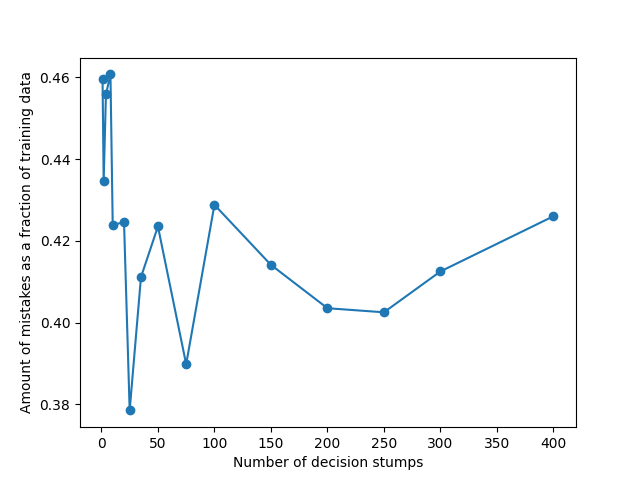
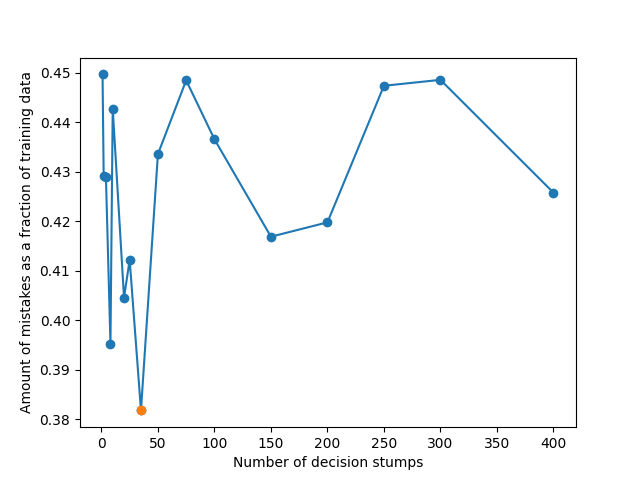
add best point to graph

diff --git a/cross-validation/HW_09_jxp8764_pdn3628_Classifier.py b/cross-validation/HW_09_jxp8764_pdn3628_Classifier.py
@@ -11,91 +11,91 @@ def classifier(record):
 	answer = 0
 
 	# Decision Stump Number 1
-	if record['EarLobes'] <= 0:
+	if record['Age'] > 52:
 		answer = answer - 1
 	else:
 		answer = answer + 1
 
 	# Decision Stump Number 2
-	if record['Age'] > 48:
+	if record['Reach'] > 217:
 		answer = answer - 1
 	else:
 		answer = answer + 1
 
 	# Decision Stump Number 3
-	if record['Reach'] > 209:
+	if record['Age'] > 19:
 		answer = answer - 1
 	else:
 		answer = answer + 1
 
 	# Decision Stump Number 4
-	if record['EarLobes'] <= 1:
+	if record['TailLn'] > 17:
 		answer = answer - 1
 	else:
 		answer = answer + 1
 
 	# Decision Stump Number 5
-	if record['BangLn'] <= 1:
+	if record['Age'] > 46:
 		answer = answer - 1
 	else:
 		answer = answer + 1
 
 	# Decision Stump Number 6
-	if record['TailLn'] <= 26:
+	if record['Age'] > 64:
 		answer = answer - 1
 	else:
 		answer = answer + 1
 
 	# Decision Stump Number 7
-	if record['HairLn'] <= 8:
+	if record['Age'] > 23:
 		answer = answer - 1
 	else:
 		answer = answer + 1
 
 	# Decision Stump Number 8
-	if record['Age'] > 63:
+	if record['EarLobes'] <= 1:
 		answer = answer - 1
 	else:
 		answer = answer + 1
 
 	# Decision Stump Number 9
-	if record['TailLn'] <= 29:
+	if record['BangLn'] <= 7:
 		answer = answer - 1
 	else:
 		answer = answer + 1
 
 	# Decision Stump Number 10
-	if record['BangLn'] <= 5:
+	if record['TailLn'] > -7:
 		answer = answer - 1
 	else:
 		answer = answer + 1
 
 	# Decision Stump Number 11
-	if record['EarLobes'] <= 0:
+	if record['HairLn'] > 1:
 		answer = answer - 1
 	else:
 		answer = answer + 1
 
 	# Decision Stump Number 12
-	if record['TailLn'] > -4:
+	if record['BangLn'] <= 5:
 		answer = answer - 1
 	else:
 		answer = answer + 1
 
 	# Decision Stump Number 13
-	if record['HairLn'] <= 12:
+	if record['HairLn'] > 16:
 		answer = answer - 1
 	else:
 		answer = answer + 1
 
 	# Decision Stump Number 14
-	if record['Reach'] <= 136:
+	if record['Reach'] > 186:
 		answer = answer - 1
 	else:
 		answer = answer + 1
 
 	# Decision Stump Number 15
-	if record['BangLn'] <= 3:
+	if record['TailLn'] > 8:
 		answer = answer - 1
 	else:
 		answer = answer + 1
@@ -107,43 +107,43 @@ def classifier(record):
 		answer = answer + 1
 
 	# Decision Stump Number 17
-	if record['EarLobes'] <= 0:
+	if record['Reach'] > 235:
 		answer = answer - 1
 	else:
 		answer = answer + 1
 
 	# Decision Stump Number 18
-	if record['Ht'] > 164:
+	if record['Reach'] <= 112:
 		answer = answer - 1
 	else:
 		answer = answer + 1
 
 	# Decision Stump Number 19
-	if record['EarLobes'] > 2:
+	if record['EarLobes'] <= 1:
 		answer = answer - 1
 	else:
 		answer = answer + 1
 
 	# Decision Stump Number 20
-	if record['TailLn'] <= 27:
-		answer = answer - 1
-	else:
-		answer = answer + 1
-
-	# Decision Stump Number 21
 	if record['BangLn'] > 8:
 		answer = answer - 1
 	else:
 		answer = answer + 1
 
+	# Decision Stump Number 21
+	if record['HairLn'] <= 7:
+		answer = answer - 1
+	else:
+		answer = answer + 1
+
 	# Decision Stump Number 22
-	if record['Age'] > 74:
+	if record['Ht'] > 225:
 		answer = answer - 1
 	else:
 		answer = answer + 1
 
 	# Decision Stump Number 23
-	if record['Ht'] > 229:
+	if record['TailLn'] > 19:
 		answer = answer - 1
 	else:
 		answer = answer + 1
@@ -155,7 +155,67 @@ def classifier(record):
 		answer = answer + 1
 
 	# Decision Stump Number 25
-	if record['TailLn'] > 30:
+	if record['TailLn'] > -5:
+		answer = answer - 1
+	else:
+		answer = answer + 1
+
+	# Decision Stump Number 26
+	if record['HairLn'] <= 3:
+		answer = answer - 1
+	else:
+		answer = answer + 1
+
+	# Decision Stump Number 27
+	if record['Ht'] > 231:
+		answer = answer - 1
+	else:
+		answer = answer + 1
+
+	# Decision Stump Number 28
+	if record['EarLobes'] <= 0:
+		answer = answer - 1
+	else:
+		answer = answer + 1
+
+	# Decision Stump Number 29
+	if record['Ht'] > 196:
+		answer = answer - 1
+	else:
+		answer = answer + 1
+
+	# Decision Stump Number 30
+	if record['Ht'] > 221:
+		answer = answer - 1
+	else:
+		answer = answer + 1
+
+	# Decision Stump Number 31
+	if record['BangLn'] <= 1:
+		answer = answer - 1
+	else:
+		answer = answer + 1
+
+	# Decision Stump Number 32
+	if record['BangLn'] <= 4:
+		answer = answer - 1
+	else:
+		answer = answer + 1
+
+	# Decision Stump Number 33
+	if record['Reach'] <= 99:
+		answer = answer - 1
+	else:
+		answer = answer + 1
+
+	# Decision Stump Number 34
+	if record['Age'] > 69:
+		answer = answer - 1
+	else:
+		answer = answer + 1
+
+	# Decision Stump Number 35
+	if record['Ht'] > 152:
 		answer = answer - 1
 	else:
 		answer = answer + 1
